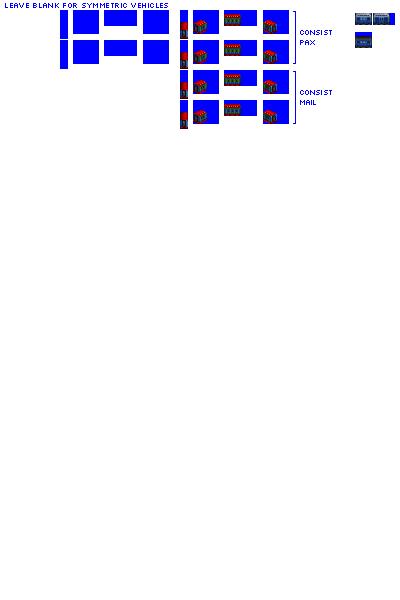
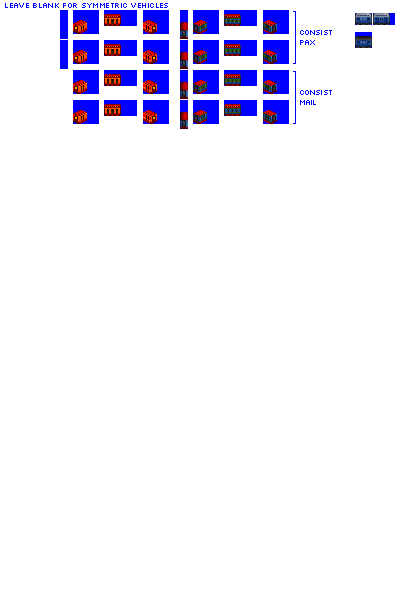
Change: sprites complete for gen 1A mail car

Changed region(s): [[0.18, 0.0, 0.42, 0.21]]

diff --git a/src/vehicles/mail_cars.py b/src/vehicles/mail_cars.py
@@ -19,7 +19,8 @@ def main():
     consist = MailCarConsist(roster='pony',
                              base_numeric_id=2280,
                              gen=1,
-                             subtype='A')
+                             subtype='A',
+                             sprites_complete=True)
 
     consist.add_unit(type=PaxMailCar,
                      capacity=10,
